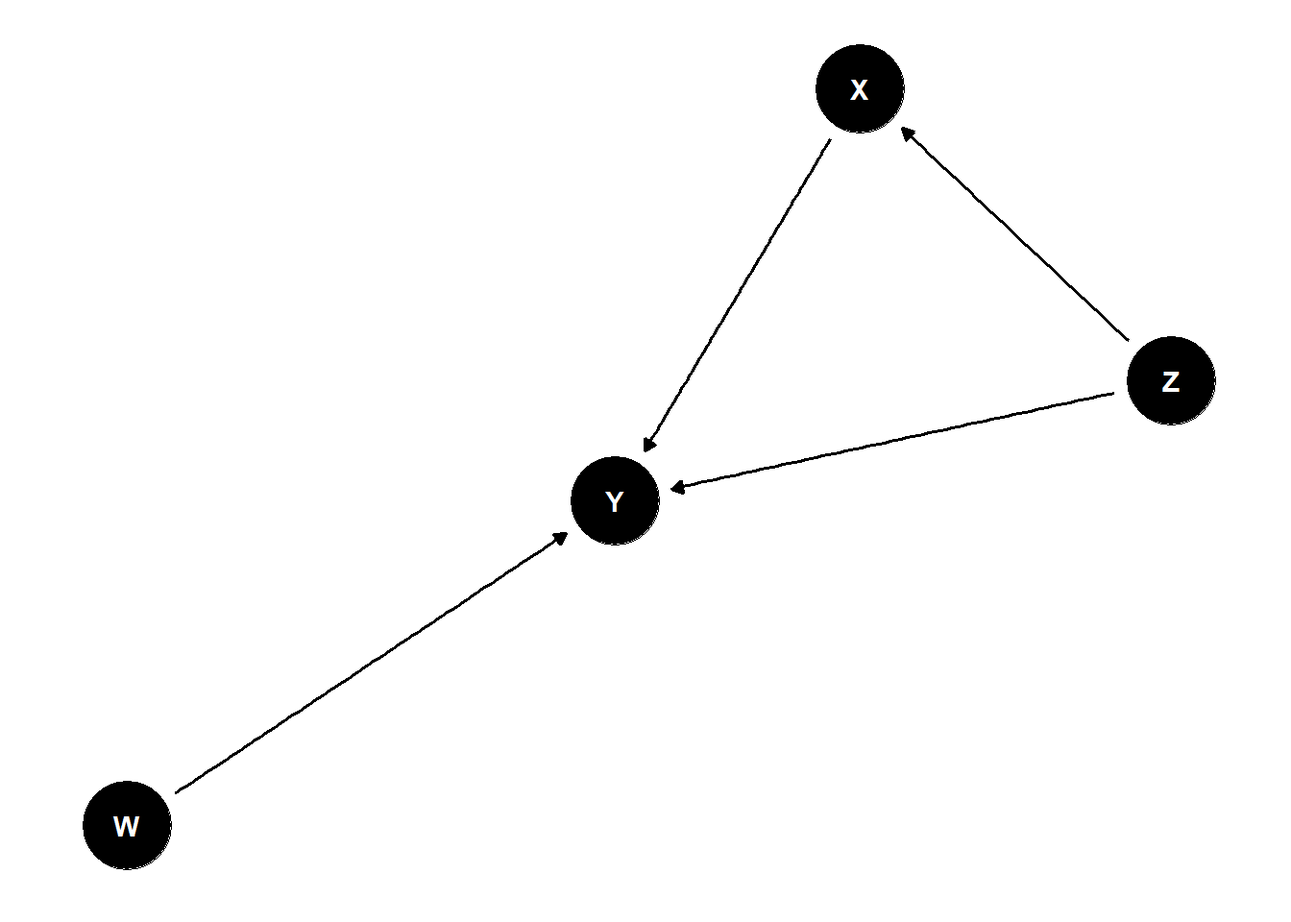
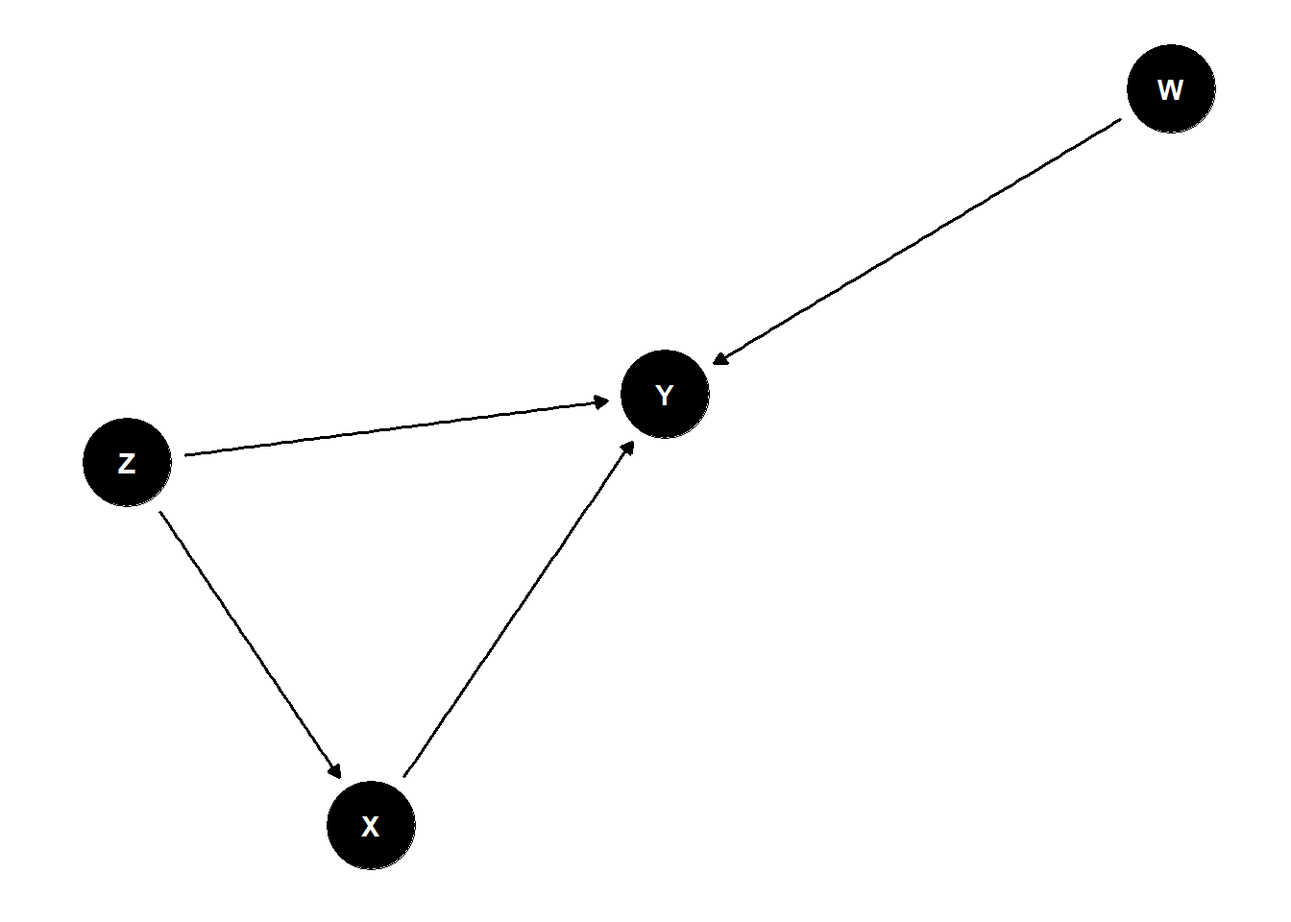
added analytical study design part

diff --git a/docs/validity_reliability_research.html b/docs/validity_reliability_research.html
@@ -159,7 +159,7 @@ ul.task-list li input[type="checkbox"] {
   <li><a href="#random-error" id="toc-random-error" class="nav-link" data-scroll-target="#random-error"><span class="toc-section-number">3.4.1</span>  Random Error</a></li>
   <li><a href="#systematic-error" id="toc-systematic-error" class="nav-link" data-scroll-target="#systematic-error"><span class="toc-section-number">3.4.2</span>  Systematic Error</a></li>
   <li><a href="#bias-in-research" id="toc-bias-in-research" class="nav-link" data-scroll-target="#bias-in-research"><span class="toc-section-number">3.4.3</span>  Bias in Research</a></li>
-  <li><a href="#different-types-of-bias" id="toc-different-types-of-bias" class="nav-link" data-scroll-target="#different-types-of-bias"><span class="toc-section-number">3.4.4</span>  Different Types of Bias</a></li>
+  <li><a href="#table-enlisting-different-types-of-bias" id="toc-table-enlisting-different-types-of-bias" class="nav-link" data-scroll-target="#table-enlisting-different-types-of-bias"><span class="toc-section-number">3.4.4</span>  Table enlisting different types of Bias</a></li>
   </ul></li>
   </ul>
 </nav>
@@ -308,7 +308,7 @@ ul.task-list li input[type="checkbox"] {
 <section id="systematic-error" class="level3" data-number="3.4.2">
 <h3 data-number="3.4.2" class="anchored" data-anchor-id="systematic-error"><span class="header-section-number">3.4.2</span> Systematic Error</h3>
 <div style="text-align:justify">
-<p>Occurs when the measurement system makes the same kind of mistake every time it measures something. Often, that happens because of a problem with the tool or the way the experiment or research is carried out. For example, a caliper might be miscalibrated and always show larger widths than they are. Systematic error is a <strong>threat to validity</strong> of the research</p>
+<p>Occurs when the measurement system makes the same kind of mistake every time it measures something. Often happens because of a problem with the tool or the way the experiment or research is carried out. For example, a caliper might be miscalibrated and always show larger widths than they are. Systematic error is a <strong>threat to validity</strong> of the research</p>
 <ul>
 <li><p>It occurs consistently in the same direction.</p></li>
 <li><p>Varies in relationship with the actual value of the measurement.</p></li>
@@ -331,14 +331,56 @@ ul.task-list li input[type="checkbox"] {
 <li><p>Deviation of results or inferences from the truth, or processes leading to such deviation. Any trend in the collection, analysis, interpretation, publication, or review of data that can lead to conclusions that are systematically different from the truth.</p></li>
 <li><p>A process at any stage of inference tending to produce results that depart systematically from true values.</p></li>
 </ul>
-<p>“<em>The Idols of Tribe have their foundation in human nature itself, and in the tribe or race of men. For it is a false assertion that the sense of man is the measure of things. On the contrary, all perceptions as well of the sense as of the mind are according to the measure of the individual and not according to the measure of the universe. And the human understanding is like a false mirror, which, receiving rays irregularly, distorts and discolors the nature of things by mingling its own nature with it</em>.”</p>
-<pre><code>  - Francis Bacon, Novum Organum</code></pre>
+<p>“The Idols of Tribe have their foundation in human nature itself, and in the tribe or race of men. For it is a false assertion that the sense of man is the measure of things. On the contrary, all perceptions as well of the sense as of the mind are according to the measure of the individual and not according to the measure of the universe. And the human understanding is like a false mirror, which, receiving rays irregularly, distorts and discolors the nature of things by mingling its own nature with it.”</p>
+<ul>
+<li>Francis Bacon, Novum Organum</li>
+</ul>
 <p>Bacon’s words remind us that our understanding of the world is influenced by who we are and where we come from. In research, this means our personal biases can affect how we design studies, analyze data, and draw conclusions.</p>
 </div>
 </section>
+<section id="major-types-of-bias-distinguished-in-research" class="level4" data-number="3.4.3.2">
+<h4 data-number="3.4.3.2" class="anchored" data-anchor-id="major-types-of-bias-distinguished-in-research"><span class="header-section-number">3.4.3.2</span> Major types of Bias distinguished in Research</h4>
+<div style="text-align:justify">
+<p><strong>Selection Bias</strong></p>
+<p>Errors due to systematic differences in characteristics between those who are selected for study and those who are not.(Last; Beaglehole)</p>
+<p>When comparisons are made between groups of patients that differ in ways other than the main factors under study, that affect the outcome under study.(Fletcher)</p>
+<p>When the individuals selected for a study or the process by which they are included in the study leads to a non-representative sample. This bias can distort the results of a study because the sample does not accurately reflect the broader population that the study aims to generalize to. As a result, conclusions drawn from the study may be misleading, since the study group differs in important ways from the population under investigation.</p>
+<p><strong>Information Bias/ Measurement Bias</strong></p>
+<p>Information bias (also called measurement bias or observation bias) occurs when there is a systematic error in the measurement or collection of data, leading to inaccurate or misclassified information about the exposure, outcome, or other variables in a study. This type of bias can distort the observed relationship between the exposure and outcome, leading to incorrect conclusions.</p>
+<p>Information bias typically arises when there is a discrepancy between the true values of variables and how they are measured or recorded. It can happen at any stage of a study, whether it’s during data collection, participant interviews, surveys, clinical examinations, or laboratory tests.</p>
+</div>
 </section>
-<section id="different-types-of-bias" class="level3" data-number="3.4.4">
-<h3 data-number="3.4.4" class="anchored" data-anchor-id="different-types-of-bias"><span class="header-section-number">3.4.4</span> Different Types of Bias</h3>
+<section id="confounding-bias" class="level4" data-number="3.4.3.3">
+<h4 data-number="3.4.3.3" class="anchored" data-anchor-id="confounding-bias"><span class="header-section-number">3.4.3.3</span> Confounding Bias</h4>
+<div style="text-align:justify">
+<p>In research, identifying true relationships between variables is essential for drawing valid conclusions. However, the process is often complicated by confounding bias, a phenomenon where an external variable—called a “confounder”—distorts or misrepresents the true relationship between the variables being studied.</p>
+<p>A confounder is a variable that influences both the independent variable (the cause) and the dependent variable (the effect), creating a false impression of a relationship. This can lead to misleading results, making it difficult to establish cause-and-effect links with certainty.</p>
+<p>Recognizing and controlling for confounding bias is critical to ensuring the validity of research findings.</p>
+</div>
+<p><strong>A Confounder</strong></p>
+<div style="text-align:justify">
+<ul>
+<li><p>Is associated with both the disease and the exposure</p></li>
+<li><p>is unequally distributed between the groups</p></li>
+<li><p>Should be working independently and not as part of the proposed exposure-health outcome pathway</p></li>
+</ul>
+</div>
+<section id="handling-confounding" class="level5" data-number="3.4.3.3.1">
+<h5 data-number="3.4.3.3.1" class="anchored" data-anchor-id="handling-confounding"><span class="header-section-number">3.4.3.3.1</span> Handling Confounding</h5>
+<div style="text-align:justify">
+<p><strong>At the Stage of Study Design</strong>:</p>
+<p><strong>Randomization</strong>: Randomization is a technique used during study design to assign participants to different groups in a way that ensures each participant has an equal chance of being assigned to any group, minimizing the potential for confounding variables to affect the results.</p>
+<p><strong>Restriction</strong>: Restriction involves limiting the study population to individuals who meet certain criteria, such as age range or disease stage, in order to reduce the potential impact of confounders by controlling for specific variables that may influence the outcome.</p>
+<p><strong>Matching</strong>: Matching is a method where participants in different groups are paired based on similar characteristics (e.g., age, gender, baseline health status) to control for confounding factors, ensuring that these variables are equally distributed across the groups.</p>
+<p><strong>At the Stage of Analysis</strong></p>
+<p><strong>Stratification</strong>: Stratification is a technique used during the analysis phase of a study, where the data is divided into subgroups (strata) based on a particular confounder, allowing the researcher to assess the relationship between the exposure and outcome within each stratum, thus controlling for the confounding effect.</p>
+<p><strong>Regression Adjustment</strong>: Adjustment refers to statistical techniques, such as regression analysis, that are used during data analysis to control for confounders by statistically accounting for their potential influence on the relationship between the exposure and outcome variables.</p>
+</div>
+</section>
+</section>
+</section>
+<section id="table-enlisting-different-types-of-bias" class="level3" data-number="3.4.4">
+<h3 data-number="3.4.4" class="anchored" data-anchor-id="table-enlisting-different-types-of-bias"><span class="header-section-number">3.4.4</span> Table enlisting different types of Bias</h3>
 <div style="text-align:justify">
 <div class="cell">
 <div class="cell-output-display">
@@ -399,95 +441,59 @@ ul.task-list li input[type="checkbox"] {
 </div>
 </div>
 </div>
-<section id="confounding-bias" class="level4" data-number="3.4.4.1">
-<h4 data-number="3.4.4.1" class="anchored" data-anchor-id="confounding-bias"><span class="header-section-number">3.4.4.1</span> Confounding Bias</h4>
+<section id="directed-acyclic-graph" class="level4" data-number="3.4.4.1">
+<h4 data-number="3.4.4.1" class="anchored" data-anchor-id="directed-acyclic-graph"><span class="header-section-number">3.4.4.1</span> Directed Acyclic Graph</h4>
 <div style="text-align:justify">
-<p>In research and data analysis, identifying true relationships between variables is essential for drawing valid conclusions. However, the process is often complicated by confounding bias, a phenomenon where an external variable—called a “confounder”—distorts or misrepresents the true relationship between the variables being studied.</p>
-<p>A confounder is a variable that influences both the independent variable (the cause) and the dependent variable (the effect), creating a false impression of a relationship. This can lead to misleading results, making it difficult to establish cause-and-effect links with certainty.</p>
-<p>Recognizing and controlling for confounding bias is critical to ensuring the validity of research findings.</p>
-</div>
-<section id="confounder-must-have-the-following-characteristics" class="level5" data-number="3.4.4.1.1">
-<h5 data-number="3.4.4.1.1" class="anchored" data-anchor-id="confounder-must-have-the-following-characteristics"><span class="header-section-number">3.4.4.1.1</span> Confounder must have the following characteristics</h5>
-<div style="text-align:justify">
-<ul>
-<li><p>Associated with both the disease and the exposure</p></li>
-<li><p>Unequally distributed between the groups</p></li>
-<li><p>Should be working independently and not as part of the proposed exposure-health outcome pathway</p></li>
-</ul>
-</div>
-</section>
-<section id="handling-confounding" class="level5" data-number="3.4.4.1.2">
-<h5 data-number="3.4.4.1.2" class="anchored" data-anchor-id="handling-confounding"><span class="header-section-number">3.4.4.1.2</span> Handling Confounding</h5>
-<div style="text-align:justify">
-<p><strong>An the Stage of Study Design</strong>:</p>
-<p><strong>Randomization</strong>: Randomization is a technique used during study design to assign participants to different groups in a way that ensures each participant has an equal chance of being assigned to any group, minimizing the potential for confounding variables to affect the results.</p>
-<p><strong>Restriction</strong>: Restriction involves limiting the study population to individuals who meet certain criteria, such as age range or disease stage, in order to reduce the potential impact of confounders by controlling for specific variables that may influence the outcome.</p>
-<p><strong>Matching</strong>: Matching is a method where participants in different groups are paired based on similar characteristics (e.g., age, gender, baseline health status) to control for confounding factors, ensuring that these variables are equally distributed across the groups.</p>
-<p><strong>At the Stage of Analysis</strong></p>
-<p><strong>Stratification</strong>: Stratification is a technique used during the analysis phase of a study, where the data is divided into subgroups (strata) based on a particular confounder, allowing the researcher to assess the relationship between the exposure and outcome within each stratum, thus controlling for the confounding effect.</p>
-<p><strong>Adjustment</strong>: Adjustment refers to statistical techniques, such as regression analysis, that are used during data analysis to control for confounders by statistically accounting for their potential influence on the relationship between the exposure and outcome variables.</p>
-</div>
-</section>
-</section>
-<section id="a-word-on-dag" class="level4" data-number="3.4.4.2">
-<h4 data-number="3.4.4.2" class="anchored" data-anchor-id="a-word-on-dag"><span class="header-section-number">3.4.4.2</span> A Word on DAG</h4>
-<div style="text-align:justify">
-<p>Analytical study begins with a conceptual framework where the relationships between all the factors and outcome are delineated in a diagrammatic form,<strong>DAG or Directed Acyclic Graphs</strong> serves this purpose. In a nutshell, a DAG is a graphic model that depicts a set of hypotheses about the causal process that generates a set of variables of interest.</p>
-<p>In DAG, causal Effect of X on Y given by:</p>
+<p>Directed Acyclic Graph is a graphical representation of the relationships between variables in a study, where each node represents a variable, and each directed edge (arrow) represents a causal relationship between two variables. The acyclic nature of the graph means there are no feedback loops, so the graph doesn’t contain any cycles, no variable can cause itself, directly or indirectly, through a series of causal links.</p>
+<p>In DAG, Causal Effect of X on Y is given by:</p>
 <div class="cell">
 <div class="cell-output-display">
 <p><img src="validity_reliability_research_files/figure-html/unnamed-chunk-2-1.png" class="img-fluid" width="672"></p>
 </div>
 </div>
-<section id="few-points-and-terms-to-remember-in-understanding-dags" class="level5" data-number="3.4.4.2.1">
-<h5 data-number="3.4.4.2.1" class="anchored" data-anchor-id="few-points-and-terms-to-remember-in-understanding-dags"><span class="header-section-number">3.4.4.2.1</span> <strong>Few points and terms to remember in understanding DAGs</strong>:</h5>
-<section id="adjustment-sets" class="level6" data-number="3.4.4.2.1.1">
-<h6 data-number="3.4.4.2.1.1" class="anchored" data-anchor-id="adjustment-sets"><span class="header-section-number">3.4.4.2.1.1</span> <strong>Adjustment sets</strong></h6>
+<p><strong>Utilities of DAG</strong></p>
 <ul>
-<li>Any sets of covariates that closes all the biasing paths</li>
-<li>They dont open new biasing paths</li>
-<li>They dont close causal path in the process</li>
+<li><p>Visualize the causal relationships between variables.</p></li>
+<li><p>Identify potential confounders and backdoor paths that could bias results.</p></li>
+<li><p>Guide decisions on which variables to control for in the analysis.</p></li>
+<li><p>Avoid over-adjustment and collider bias by clarifying the causal structure.</p></li>
+<li><p>Enhance the transparency of causal assumptions.</p></li>
 </ul>
-</section>
-<section id="latent-variables" class="level6" data-number="3.4.4.2.1.2">
-<h6 data-number="3.4.4.2.1.2" class="anchored" data-anchor-id="latent-variables"><span class="header-section-number">3.4.4.2.1.2</span> <strong>Latent Variables</strong></h6>
-<ul>
-<li>Unobserved variables</li>
-<li>Latent confounding factors are represented by bidirectional arrows</li>
-<li>This implies bidirected edges does not mean reciprocal causation</li>
-</ul>
-</section>
-<section id="confounders" class="level6" data-number="3.4.4.2.1.3">
-<h6 data-number="3.4.4.2.1.3" class="anchored" data-anchor-id="confounders"><span class="header-section-number">3.4.4.2.1.3</span> <strong>Confounders</strong></h6>
+<p><strong>Few points and terms to remember in understanding DAGs</strong>:</p>
+<p><strong>Confounders</strong></p>
 <ul>
 <li>Ancestors of exposure</li>
 <li>Ancestors of Outcome</li>
 <li>But not of outcome in the path through exposure</li>
 </ul>
-</section>
-<section id="mediator" class="level6" data-number="3.4.4.2.1.4">
-<h6 data-number="3.4.4.2.1.4" class="anchored" data-anchor-id="mediator"><span class="header-section-number">3.4.4.2.1.4</span> <strong>Mediator</strong></h6>
+<p><strong>Mediators</strong></p>
 <ul>
 <li>Descendant of exposure</li>
 <li>Ancestor of Outcome</li>
 <li>It lies in the causal pathway between Exposure &amp; Outcome</li>
 </ul>
-</section>
-<section id="proxy-confounder" class="level6" data-number="3.4.4.2.1.5">
-<h6 data-number="3.4.4.2.1.5" class="anchored" data-anchor-id="proxy-confounder"><span class="header-section-number">3.4.4.2.1.5</span> <strong>Proxy Confounder</strong></h6>
+<p><strong>Proxy Confounder</strong></p>
 <ul>
 <li>Lies between confounder and exposure or outcome</li>
 <li>Descendant of a confounder</li>
 <li>Ancestor of either the exposure or the outcome</li>
 <li>Not ancestor of both, in that case it would be confounder</li>
 </ul>
-</section>
-<section id="competing-exposures" class="level6" data-number="3.4.4.2.1.6">
-<h6 data-number="3.4.4.2.1.6" class="anchored" data-anchor-id="competing-exposures"><span class="header-section-number">3.4.4.2.1.6</span> <strong>Competing Exposures</strong></h6>
+<p><strong>Competing Exposures</strong></p>
 <ul>
-<li>An ancestor of the outcome</li>
-<li>Not related with the exposure</li>
-<li>Neither a confounder, nor a proxy confounder, nor a mediator.</li>
+<li><p>An ancestor of the outcome</p></li>
+<li><p>Not related with the exposure</p></li>
+<li><p>Neither a confounder, nor a proxy confounder, nor a mediator.</p>
+<p><strong>Adjustment sets</strong></p></li>
+<li><p>Any sets of covariates that closes all the biasing paths</p></li>
+<li><p>They dont open new biasing paths</p></li>
+<li><p>They dont close causal path in the process</p></li>
+</ul>
+<p><strong>Latent Variables</strong></p>
+<ul>
+<li>Unobserved variables</li>
+<li>Latent confounding factors are represented by bidirectional arrows</li>
+<li>This implies bi directed edges does not mean reciprocal causation</li>
 </ul>
 <p>An Example of DAG is presented here:</p>
 <div class="cell">
@@ -501,10 +507,8 @@ ul.task-list li input[type="checkbox"] {
 <li><p>X is a mediator between Z and Y</p></li>
 <li><p>W is a competing exposure</p></li>
 </ul>
-<p>This helps in identifying sources of confounding. Once identified, steps should be taken to address those anticipated biases. After the study has been completed one should again assess the possibility of biases operating. Analysis should be performed to take care of some of the biases, if possible, or the effect. Causation needs to be distinguished from mere association – the link between two variables (often an exposure and an outcome). An observed association may in fact be due to the effects of chance (random error), bias (systematic error), confounding, reverse causality or true causality.</p>
+<p>This helps in identifying sources of confounding. Once identified, steps should be taken to address those anticipated biases. After the study has been completed one should again assess the possibility of biases operating. Analysis should be performed to take care of some of the biases, if possible, or the effect. Causation needs to be distinguished from mere association, the link between two variables (often an exposure and an outcome). An observed association may in fact be due to the effects of chance (random error), bias (systematic error), confounding, reverse causality or true causality.</p>
 <p>The observed presence or absence of a statistical association between an exposure and an outcome does not necessarily imply the presence or absence of a causal relationship respectively. A cause-effect relationship between exposure and disease requires inferences far beyond the data from a single study.</p>
-</section>
-</section>
 </div>
 
 

diff --git a/docs/study_design.html b/docs/study_design.html
@@ -154,6 +154,7 @@ ul.task-list li input[type="checkbox"] {
   <li><a href="#differentiate-descriptive-analytical-study-design" id="toc-differentiate-descriptive-analytical-study-design" class="nav-link" data-scroll-target="#differentiate-descriptive-analytical-study-design"><span class="toc-section-number">2.4.2</span>  Differentiate Descriptive &amp; Analytical study design</a></li>
   <li><a href="#classification-of-desciptive-analytical-study-design" id="toc-classification-of-desciptive-analytical-study-design" class="nav-link" data-scroll-target="#classification-of-desciptive-analytical-study-design"><span class="toc-section-number">2.4.3</span>  Classification of Desciptive &amp; Analytical study design</a></li>
   <li><a href="#descriptive-observational-study-design" id="toc-descriptive-observational-study-design" class="nav-link" data-scroll-target="#descriptive-observational-study-design"><span class="toc-section-number">2.4.4</span>  Descriptive Observational Study Design</a></li>
+  <li><a href="#analytical-observational-study-design" id="toc-analytical-observational-study-design" class="nav-link" data-scroll-target="#analytical-observational-study-design"><span class="toc-section-number">2.4.5</span>  Analytical Observational Study Design</a></li>
   </ul></li>
   </ul>
 </nav>
@@ -385,8 +386,7 @@ ul.task-list li input[type="checkbox"] {
 </div>
 <p>First let us delve into the individual level descriptive studies.</p>
 </div>
-<section id="case-reports" class="level5" data-number="2.4.4.3.1">
-<h5 data-number="2.4.4.3.1" class="anchored" data-anchor-id="case-reports"><span class="header-section-number">2.4.4.3.1</span> Case Reports</h5>
+<p><strong>Case Reports</strong></p>
 <div style="text-align:justify">
 <p>A case report is a detailed account of a specific clinical instance involving an individual patient. It serves as one of the earliest forms of medical research, emerging from the <strong>careful observations</strong> made by physicians and healthcare providers during their clinical practice. It serves as valuable tool for generating hypotheses, particularly in emerging health issues, as they document unique clinical presentations and associations.They provide detailed accounts of individual patient experiences, which can inform clinical practice and enhance understanding of rare or novel conditions.</p>
 <ul>
@@ -402,9 +402,7 @@ ul.task-list li input[type="checkbox"] {
 <li><p>adverse event</p></li>
 </ul>
 </div>
-</section>
-<section id="case-series" class="level5" data-number="2.4.4.3.2">
-<h5 data-number="2.4.4.3.2" class="anchored" data-anchor-id="case-series"><span class="header-section-number">2.4.4.3.2</span> Case Series</h5>
+<p><strong>Case Series</strong></p>
 <div style="text-align:justify">
 <ul>
 <li><p>Experience of a group of patients with a similar diagnosis</p></li>
@@ -416,9 +414,7 @@ ul.task-list li input[type="checkbox"] {
 <p>The emergence of the Zika virus in Latin America marked a significant public health concern, particularly due to its association with serious fetal anomalies, including microcephaly. Case reports and case series played a crucial role in elucidating the relationship between Zika virus infection and adverse pregnancy outcomes, significantly enhancing our understanding of this public health crisis.</p>
 <p>A case report that first documented instance of maternal Zika virus infection associated with fetal microcephaly in Colombia, mirroring presentations previously observed in Brazil during the 2015–2016 outbreak is presented <a href="https://pmc.ncbi.nlm.nih.gov/articles/PMC5470308/">here</a></p>
 </div>
-</section>
-<section id="ecological-studies" class="level5" data-number="2.4.4.3.3">
-<h5 data-number="2.4.4.3.3" class="anchored" data-anchor-id="ecological-studies"><span class="header-section-number">2.4.4.3.3</span> Ecological Studies</h5>
+<p><strong>Ecological Studies</strong></p>
 <div style="text-align:justify">
 <ul>
 <li><p>Group as the unit of analysis</p></li>
@@ -447,9 +443,45 @@ ul.task-list li input[type="checkbox"] {
 <li><p>Arises when associations between two variables at group level differ from associations between analogous variables measured at the individual level</p></li>
 </ul>
 </div>
-
-
 </section>
+</section>
+<section id="analytical-observational-study-design" class="level3" data-number="2.4.5">
+<h3 data-number="2.4.5" class="anchored" data-anchor-id="analytical-observational-study-design"><span class="header-section-number">2.4.5</span> Analytical Observational Study Design</h3>
+<div style="text-align:justify">
+<p>An analytical observational study design is a type of research method used to investigate relationships between variables and test hypotheses. Unlike descriptive observational studies, which simply describe phenomena as they naturally occur, analytical studies aim to analyze the association or correlation between exposures (or risk factors) and outcomes (or diseases), often to uncover patterns or test causal hypotheses. However, these studies still do not involve manipulation of the study variables, which distinguishes them from experimental designs.</p>
+</div>
+<section id="key-features-of-analytical-observational-study-design" class="level4" data-number="2.4.5.1">
+<h4 data-number="2.4.5.1" class="anchored" data-anchor-id="key-features-of-analytical-observational-study-design"><span class="header-section-number">2.4.5.1</span> Key Features of Analytical Observational Study Design</h4>
+<div style="text-align:justify">
+<ul>
+<li><p>Aims to analyze relationships between variables, such as how a certain exposure (e.g., smoking, air pollution, or diet) affects the risk of an outcome (e.g., lung cancer, cardiovascular disease, or obesity).</p></li>
+<li><p>As with all observational study designs, there is no manipulation of the variables by the researcher. The study simply observes the natural occurrence of exposure and outcomes.</p></li>
+<li><p>Test specific hypotheses about associations between exposures and outcomes. These studies aim to identify whether there is a statistical relationship and how strong that relationship might be.</p></li>
+<li><p>While causal inference is stronger in experimental designs (like randomized controlled trials), analytical observational studies can suggest causal relationships if the study is well-designed and the findings are consistent with other evidence.</p></li>
+</ul>
+</div>
+</section>
+<section id="classification-of-analytical-observational-study-design" class="level4" data-number="2.4.5.2">
+<h4 data-number="2.4.5.2" class="anchored" data-anchor-id="classification-of-analytical-observational-study-design"><span class="header-section-number">2.4.5.2</span> Classification of Analytical Observational Study Design</h4>
+<div class="cell">
+<div class="cell-output-display">
+<div>
+<p>
+</p><pre class="mermaid mermaid-js" data-tooltip-selector="#mermaid-tooltip-3">flowchart TB
+  A[Analytical Observational Study] --&gt; B(Cross Sectional Study)
+  A[Analytical Observational Study] --&gt; C(Cohort study)
+  A[Analytical Observational Study]--&gt; D(Case Control)
+ 
+</pre>
+<div id="mermaid-tooltip-3" class="mermaidTooltip">
+
+</div>
+<p></p>
+</div>
+</div>
+</div>
+
+
 </section>
 </section>
 </section>
